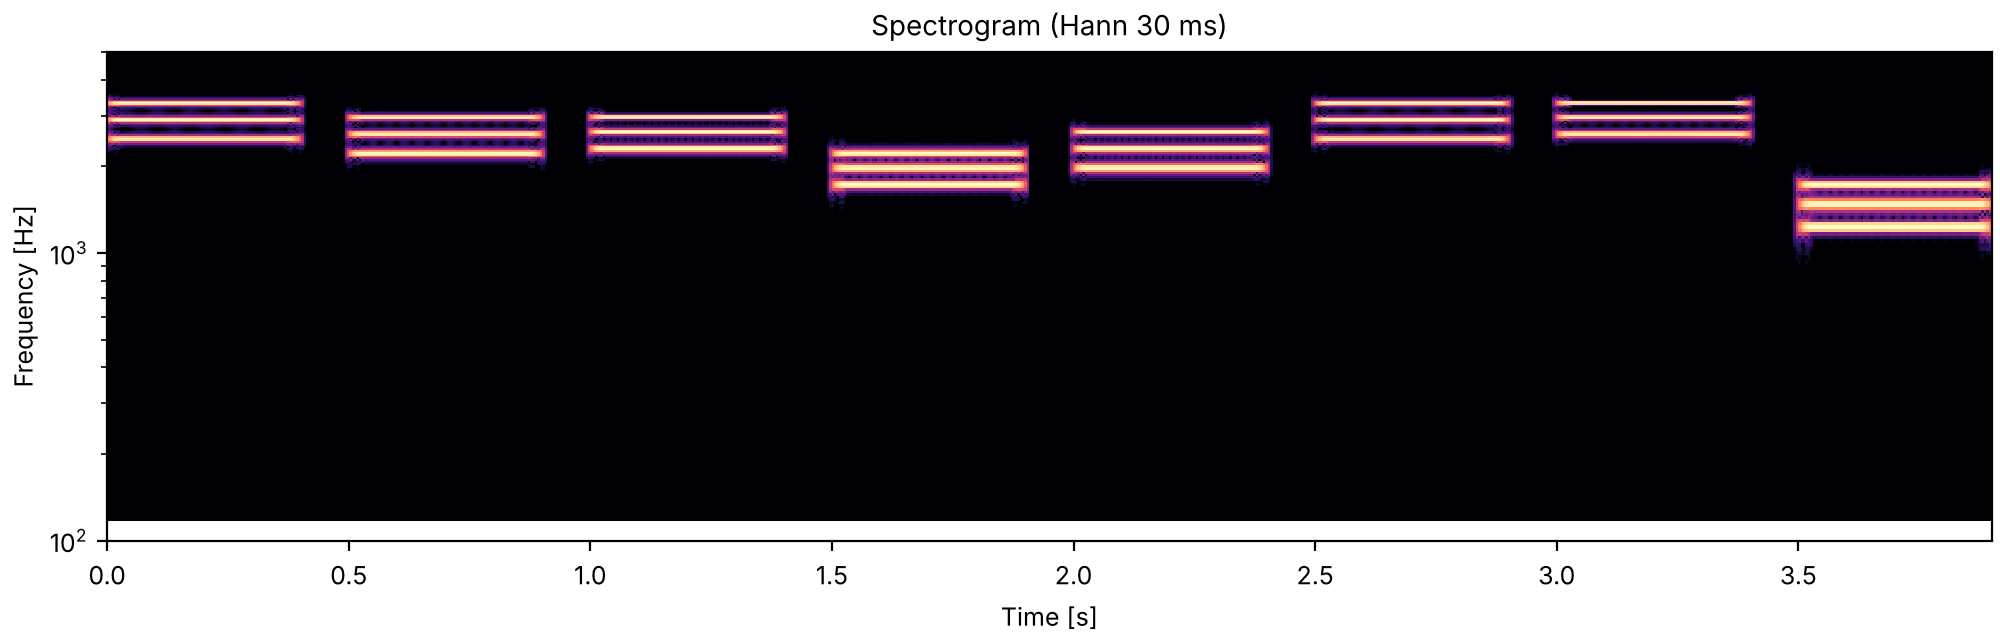
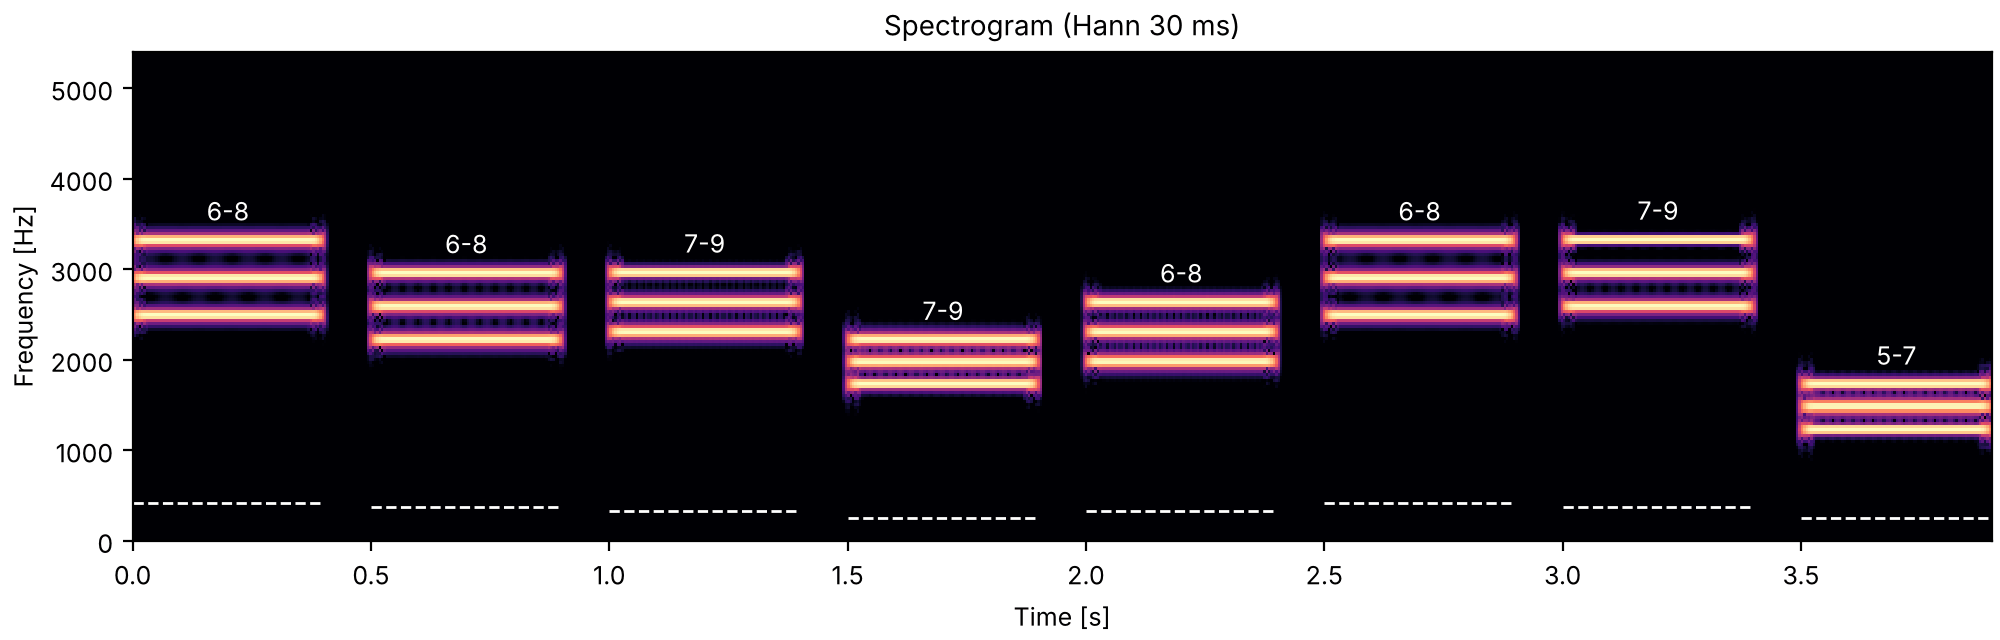
Show the pk7 harmonics on one linear axis
The three random-harmonics figures share a linear 0-5400 Hz axis, label each
note with its harmonic numbers and dash its missing fundamental. The sounds
are unchanged.

Claude-Session: https://claude.ai/code/session_0128tMBLr98ouEA5R2ovfC6f

diff --git a/docs/gallery/complexpitch.html b/docs/gallery/complexpitch.html
@@ -592,7 +592,7 @@ sound = finish(westminster(high_noise))
 fig, playhead = show(sound, fmin=100, fmax=5000)</code></pre></details>
 </article>
 
-<article class="sound" id="d-pk7" data-regions="[{&quot;x0&quot;: 0.05356928949652778, &quot;x1&quot;: 0.995833, &quot;top&quot;: 0.0811099826388888, &quot;bottom&quot;: 0.844706871202257, &quot;t0&quot;: 0.0, &quot;t1&quot;: 3.900045351473923}]">
+<article class="sound" id="d-pk7" data-regions="[{&quot;x0&quot;: 0.0662958519965278, &quot;x1&quot;: 0.9958329999999999, &quot;top&quot;: 0.0811099826388888, &quot;bottom&quot;: 0.844706871202257, &quot;t0&quot;: 0.0, &quot;t1&quot;: 3.900045351473923}]">
   <div class="about">
     <h3>The tune on random low harmonics</h3>
     <div class="desc"><p><strong>Listen for</strong> the same tune, now with each note made of three successive harmonics chosen at
@@ -601,7 +601,8 @@ that the melody stays clearly recognizable, which shows that it is not followed 
 one harmonic from note to note.</p><p>Houtsma, Rossing &amp; Wagenaars, Demonstration 23, after Houtsma (1984). Three successive harmonics
 of each note, with harmonic numbers between 2 and 6, as in the booklet. Ours: the tune and
 timing (0.4 s notes, one every 0.5 s), the random draws (seed 231), equal amplitudes and 20 ms
-ramps.</p></div>
+ramps.</p><p>The three figures share one frequency axis. Above each note are its harmonic numbers, and the
+dashed line is its fundamental, which is not in the sound.</p></div>
     <audio controls preload="metadata" src="audio/pk7_the_tune_on_random_low_harmonics.flac"></audio>
     <p class="file">pk7_the_tune_on_random_low_harmonics.flac, 3.9 s, mono</p>
   </div>
@@ -611,18 +612,38 @@ ramps.</p></div>
   </div></figure>
   <details class="code"><summary>Code</summary><pre><code class="language-python">def random_harmonics(lowest, highest, seed):
     rng = np.random.default_rng(seed)
-    events = []
+    events, firsts = [], []
     for k, f0 in enumerate(TUNE):
         first = rng.integers(lowest, highest - 1)  # three successive harmonics within the range
         events.append((0.5 * k, harmonics(f0, [first, first + 1, first + 2], 0.4)))
-    return place(events)
+        firsts.append(first)
+    return place(events), firsts
 
 
-sound = finish(random_harmonics(2, 6, seed=231))
-fig, playhead = show(sound, fmin=100, fmax=5000)</code></pre></details>
+def show_harmonics(snd, firsts):
+    &quot;&quot;&quot;The spectrogram on a linear axis, the same for all three parts, with the harmonic numbers
+    of each note written above it and its missing fundamental dashed.&quot;&quot;&quot;
+    fig, panels = show(snd, fmin=0, fmax=5400, log=False)
+    for k, (f0, first) in enumerate(zip(TUNE, firsts, strict=True)):
+        panels[0].plot([0.5 * k, 0.5 * k + 0.4], [f0, f0], color=&quot;white&quot;, linestyle=&quot;--&quot;, linewidth=1)
+        panels[0].text(
+            0.5 * k + 0.2,
+            f0 * (first + 2) + 150,
+            f&quot;{first}-{first + 2}&quot;,
+            color=&quot;white&quot;,
+            ha=&quot;center&quot;,
+            va=&quot;bottom&quot;,
+            fontsize=9,
+        )
+    return fig, panels
+
+
+sound, firsts = random_harmonics(2, 6, seed=231)
+sound = finish(sound)
+fig, playhead = show_harmonics(sound, firsts)</code></pre></details>
 </article>
 
-<article class="sound" id="d-pk7b" data-regions="[{&quot;x0&quot;: 0.05356928949652778, &quot;x1&quot;: 0.995833, &quot;top&quot;: 0.0811099826388888, &quot;bottom&quot;: 0.844706871202257, &quot;t0&quot;: 0.0, &quot;t1&quot;: 3.900045351473923}]">
+<article class="sound" id="d-pk7b" data-regions="[{&quot;x0&quot;: 0.0662958519965278, &quot;x1&quot;: 0.9958329999999999, &quot;top&quot;: 0.0811099826388888, &quot;bottom&quot;: 0.844706871202257, &quot;t0&quot;: 0.0, &quot;t1&quot;: 3.900045351473923}]">
   <div class="about">
     <h3>The tune on random middle harmonics</h3>
     <div class="desc"><p><strong>Listen for</strong> the tune again, with harmonics drawn from the fifth to the ninth.</p><p>Houtsma, Rossing &amp; Wagenaars, Demonstration 23, its second part: harmonic numbers between 5 and
@@ -634,11 +655,12 @@ fig, playhead = show(sound, fmin=100, fmax=5000)</code></pre></details>
     <img src="img/pk7b_the_tune_on_random_middle_harmonics.png" width="1000" height="320" alt="Plots of the the tune on random middle harmonics sound" loading="lazy">
     <div class="heads" aria-hidden="true"></div>
   </div></figure>
-  <details class="code"><summary>Code</summary><pre><code class="language-python">sound = finish(random_harmonics(5, 9, seed=232))
-fig, playhead = show(sound, fmin=100, fmax=5000)</code></pre></details>
+  <details class="code"><summary>Code</summary><pre><code class="language-python">sound, firsts = random_harmonics(5, 9, seed=232)
+sound = finish(sound)
+fig, playhead = show_harmonics(sound, firsts)</code></pre></details>
 </article>
 
-<article class="sound" id="d-pk7c" data-regions="[{&quot;x0&quot;: 0.05356928949652778, &quot;x1&quot;: 0.995833, &quot;top&quot;: 0.0811099826388888, &quot;bottom&quot;: 0.844706871202257, &quot;t0&quot;: 0.0, &quot;t1&quot;: 3.900045351473923}]">
+<article class="sound" id="d-pk7c" data-regions="[{&quot;x0&quot;: 0.0662958519965278, &quot;x1&quot;: 0.9958329999999999, &quot;top&quot;: 0.0811099826388888, &quot;bottom&quot;: 0.844706871202257, &quot;t0&quot;: 0.0, &quot;t1&quot;: 3.900045351473923}]">
   <div class="about">
     <h3>The tune on random high harmonics</h3>
     <div class="desc"><p><strong>Listen for</strong> the tune once more, with harmonics drawn from the eighth to the twelfth: the
@@ -651,8 +673,9 @@ highest and most crowded together of the three.</p><p>Houtsma, Rossing &amp; Wag
     <img src="img/pk7c_the_tune_on_random_high_harmonics.png" width="1000" height="320" alt="Plots of the the tune on random high harmonics sound" loading="lazy">
     <div class="heads" aria-hidden="true"></div>
   </div></figure>
-  <details class="code"><summary>Code</summary><pre><code class="language-python">sound = finish(random_harmonics(8, 12, seed=233))
-fig, playhead = show(sound, fmin=100, fmax=6000)</code></pre></details>
+  <details class="code"><summary>Code</summary><pre><code class="language-python">sound, firsts = random_harmonics(8, 12, seed=233)
+sound = finish(sound)
+fig, playhead = show_harmonics(sound, firsts)</code></pre></details>
 </article>
 </section>
 <section aria-labelledby="h-pitch-from-a-repetition">

diff --git a/docs/gallery/demos/complexpitch.py b/docs/gallery/demos/complexpitch.py
@@ -348,19 +348,43 @@ fig, playhead = show(sound, fmin=100, fmax=5000)
 # of each note, with harmonic numbers between 2 and 6, as in the booklet. Ours: the tune and
 # timing (0.4 s notes, one every 0.5 s), the random draws (seed 231), equal amplitudes and 20 ms
 # ramps.
+#
+# The three figures share one frequency axis. Above each note are its harmonic numbers, and the
+# dashed line is its fundamental, which is not in the sound.
+
 
 # %% [demo pk7] The tune on random low harmonics
 def random_harmonics(lowest, highest, seed):
     rng = np.random.default_rng(seed)
-    events = []
+    events, firsts = [], []
     for k, f0 in enumerate(TUNE):
         first = rng.integers(lowest, highest - 1)  # three successive harmonics within the range
         events.append((0.5 * k, harmonics(f0, [first, first + 1, first + 2], 0.4)))
-    return place(events)
+        firsts.append(first)
+    return place(events), firsts
 
 
-sound = finish(random_harmonics(2, 6, seed=231))
-fig, playhead = show(sound, fmin=100, fmax=5000)
+def show_harmonics(snd, firsts):
+    """The spectrogram on a linear axis, the same for all three parts, with the harmonic numbers
+    of each note written above it and its missing fundamental dashed."""
+    fig, panels = show(snd, fmin=0, fmax=5400, log=False)
+    for k, (f0, first) in enumerate(zip(TUNE, firsts, strict=True)):
+        panels[0].plot([0.5 * k, 0.5 * k + 0.4], [f0, f0], color="white", linestyle="--", linewidth=1)
+        panels[0].text(
+            0.5 * k + 0.2,
+            f0 * (first + 2) + 150,
+            f"{first}-{first + 2}",
+            color="white",
+            ha="center",
+            va="bottom",
+            fontsize=9,
+        )
+    return fig, panels
+
+
+sound, firsts = random_harmonics(2, 6, seed=231)
+sound = finish(sound)
+fig, playhead = show_harmonics(sound, firsts)
 
 # %% [about]
 # **Listen for** the tune again, with harmonics drawn from the fifth to the ninth.
@@ -369,8 +393,9 @@ fig, playhead = show(sound, fmin=100, fmax=5000)
 # 9. Ours as before (seed 232).
 
 # %% [demo pk7b] The tune on random middle harmonics
-sound = finish(random_harmonics(5, 9, seed=232))
-fig, playhead = show(sound, fmin=100, fmax=5000)
+sound, firsts = random_harmonics(5, 9, seed=232)
+sound = finish(sound)
+fig, playhead = show_harmonics(sound, firsts)
 
 # %% [about]
 # **Listen for** the tune once more, with harmonics drawn from the eighth to the twelfth: the
@@ -380,8 +405,9 @@ fig, playhead = show(sound, fmin=100, fmax=5000)
 # 12. Ours as before (seed 233).
 
 # %% [demo pk7c] The tune on random high harmonics
-sound = finish(random_harmonics(8, 12, seed=233))
-fig, playhead = show(sound, fmin=100, fmax=6000)
+sound, firsts = random_harmonics(8, 12, seed=233)
+sound = finish(sound)
+fig, playhead = show_harmonics(sound, firsts)
 
 # %% [markdown]
 # ## Pitch from a repetition
@@ -457,6 +483,7 @@ fig, playhead = show(sound, fmin=50, fmax=5000)
 # Houtsma, Rossing & Wagenaars, Demonstration 26, its third part: bursts of white noise echoed
 # 15 ms to 0.94 ms later. Ours: 0.25 s bursts with 10 ms ramps, and the delay made exact by a
 # phase shift in the frequency domain.
+
 
 # %% [demo pk8c] A scale of echoed noise
 def echoed_noise(delay, rng):
